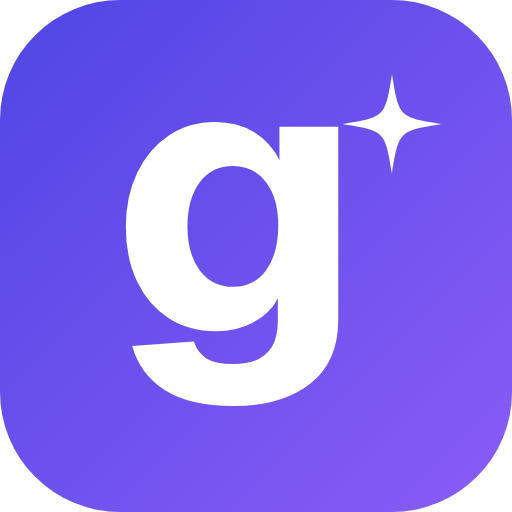
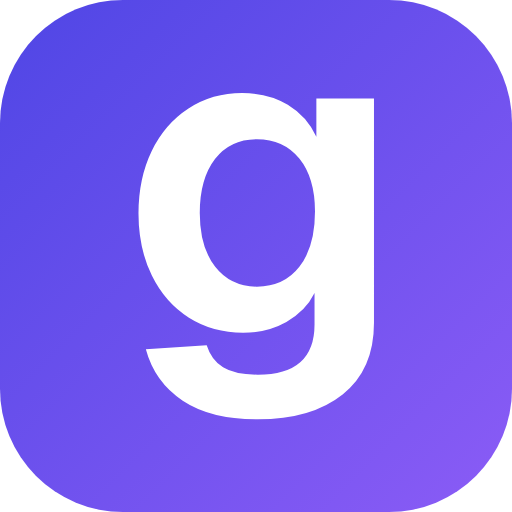
Set the g tile inside the word, on the same line as ooidy
Marcin picked the inline version: the g keeps the text size and baseline,
with a small square indigo tile behind it. Icons, brand files and the
link preview follow the same tile.

Claude-Session: https://claude.ai/code/session_014AbpVxx4rU96gcdgerUCxR

diff --git a/src/app/_landing/chrome.tsx b/src/app/_landing/chrome.tsx
@@ -1,48 +1,47 @@
-import type { ReactNode, SVGProps } from "react";
+import type { ReactNode } from "react";
 import Link from "next/link";
 import { ThemeToggle } from "./theme-toggle";
 
 // Pieces shared by the public pages: nav, link form, footer.
 
-// The Gooidy logo: the indigo "g" tile followed by "ooidy" in the text color.
-// Drawn as paths (Geist SemiBold) so it looks the same everywhere. The same
-// files live in public/brand for use outside the site.
+// The Gooidy logo: "gooidy" with the g set in an indigo tile, the rest in the
+// text color. Drawn as paths (Geist SemiBold) so it looks the same everywhere.
+// The same files live in public/brand for use outside the site.
 const G_PATH =
-  "M16.53 43.25 24.23 42.7Q24.68 44.1 25.8 44.8Q26.93 45.5 29.18 45.5Q34.73 45.5 34.73 40.15V37.3Q33.73 39.2 31.65 40.3Q29.58 41.4 26.98 41.4Q23.68 41.4 21.13 39.8Q18.58 38.2 17.15 35.23Q15.73 32.25 15.73 28.35Q15.73 24.55 17.15 21.58Q18.58 18.6 21.1 16.93Q23.63 15.25 26.88 15.25Q29.73 15.25 31.78 16.53Q33.83 17.8 34.93 20V15.85H42.28V40Q42.28 45.25 38.73 48Q35.18 50.75 29.18 50.75Q23.68 50.75 20.58 48.75Q17.48 46.75 16.53 43.25ZM34.78 28.15Q34.78 24.75 33.23 22.75Q31.68 20.75 29.13 20.75Q26.48 20.75 24.95 22.8Q23.43 24.85 23.43 28.3Q23.43 31.75 24.98 33.8Q26.53 35.85 29.13 35.85Q31.73 35.85 33.25 33.8Q34.78 31.75 34.78 28.15Z";
-const SPARK_PATH =
-  "M49 9.3C49.87 14.63 49.87 14.63 55.2 15.5C49.87 16.37 49.87 16.37 49 21.7C48.13 16.37 48.13 16.37 42.8 15.5C48.13 14.63 48.13 14.63 49 9.3Z";
+  "M19.45 1 32.65 0.1Q33.65 3.3 36.2 4.9Q38.75 6.5 43.75 6.5Q56.05 6.5 56.05 -4.4V-11.2Q54.15 -7.3 49.95 -4.95Q45.75 -2.6 40.55 -2.6Q33.95 -2.6 28.8 -5.85Q23.65 -9.1 20.75 -15Q17.85 -20.9 17.85 -28.5Q17.85 -36.1 20.7 -42Q23.55 -47.9 28.7 -51.25Q33.85 -54.6 40.35 -54.6Q46.05 -54.6 50.25 -52.05Q54.45 -49.5 56.45 -45.1V-53.4H68.95V-4.7Q68.95 5.4 62.15 10.8Q55.35 16.2 43.75 16.2Q33.55 16.2 27.45 12.15Q21.35 8.1 19.45 1ZM56.15 -28.9Q56.15 -36.2 52.75 -40.4Q49.35 -44.6 43.55 -44.6Q37.75 -44.6 34.45 -40.3Q31.15 -36 31.15 -28.6Q31.15 -21.2 34.5 -16.9Q37.85 -12.6 43.55 -12.6Q49.45 -12.6 52.8 -16.95Q56.15 -21.3 56.15 -28.9Z";
 const OOIDY_PATH =
-  "M94.1 -26.7Q94.1 -35.1 97.35 -41.4Q100.6 -47.7 106.55 -51.15Q112.5 -54.6 120.4 -54.6Q128.2 -54.6 134.15 -51.15Q140.1 -47.7 143.35 -41.4Q146.6 -35.1 146.6 -26.7Q146.6 -18.3 143.35 -12Q140.1 -5.7 134.15 -2.25Q128.2 1.2 120.4 1.2Q112.5 1.2 106.55 -2.25Q100.6 -5.7 97.35 -12Q94.1 -18.3 94.1 -26.7ZM133.4 -26.7Q133.4 -35 129.95 -39.6Q126.5 -44.2 120.4 -44.2Q114.2 -44.2 110.8 -39.6Q107.4 -35 107.4 -26.7Q107.4 -18.4 110.8 -13.8Q114.2 -9.2 120.4 -9.2Q126.6 -9.2 130 -13.8Q133.4 -18.4 133.4 -26.7ZM152.3 -26.7Q152.3 -35.1 155.55 -41.4Q158.8 -47.7 164.75 -51.15Q170.7 -54.6 178.6 -54.6Q186.4 -54.6 192.35 -51.15Q198.3 -47.7 201.55 -41.4Q204.8 -35.1 204.8 -26.7Q204.8 -18.3 201.55 -12Q198.3 -5.7 192.35 -2.25Q186.4 1.2 178.6 1.2Q170.7 1.2 164.75 -2.25Q158.8 -5.7 155.55 -12Q152.3 -18.3 152.3 -26.7ZM191.6 -26.7Q191.6 -35 188.15 -39.6Q184.7 -44.2 178.6 -44.2Q172.4 -44.2 169 -39.6Q165.6 -35 165.6 -26.7Q165.6 -18.4 169 -13.8Q172.4 -9.2 178.6 -9.2Q184.8 -9.2 188.2 -13.8Q191.6 -18.4 191.6 -26.7ZM213.4 -53.4H226.2V0H213.4ZM213.2 -71.9H226.5V-60.5H213.2ZM234.9 -26.7Q234.9 -35.2 237.65 -41.5Q240.4 -47.8 245.4 -51.2Q250.4 -54.6 257.1 -54.6Q262.6 -54.6 266.85 -52.25Q271.1 -49.9 273.3 -45.8V-71H286.1V0H274L273.7 -7.9Q271.4 -3.6 267 -1.2Q262.6 1.2 257.1 1.2Q250.3 1.2 245.3 -2.2Q240.3 -5.6 237.6 -11.9Q234.9 -18.2 234.9 -26.7ZM273.3 -26.7Q273.3 -35.2 270.1 -39.7Q266.9 -44.2 260.9 -44.2Q255 -44.2 251.6 -39.5Q248.2 -34.8 248.2 -26.7Q248.2 -18.7 251.65 -13.95Q255.1 -9.2 260.9 -9.2Q266.8 -9.2 270.05 -13.75Q273.3 -18.3 273.3 -26.7ZM301.4 5.1H308.2Q310.8 5.1 312.05 4.3Q313.3 3.5 314.1 1.6L315.5 -2.1H311.8L292.8 -53.4H306L319.5 -14.1L332.2 -53.4H345.5L324.6 5.6Q322.9 10.6 319.6 12.8Q316.3 15 310.5 15H301.4Z";
-
-export function LogoMark(props: SVGProps<SVGSVGElement>) {
-  return (
-    <svg viewBox="0 0 64 64" aria-hidden="true" {...props}>
-      <defs>
-        <linearGradient
-          id="gooidy-g"
-          x1="0"
-          y1="0"
-          x2="64"
-          y2="64"
-          gradientUnits="userSpaceOnUse"
-        >
-          <stop offset="0" stopColor="#4f46e5" />
-          <stop offset="1" stopColor="#8b5cf6" />
-        </linearGradient>
-      </defs>
-      <rect width="64" height="64" rx="15" fill="url(#gooidy-g)" />
-      <path fill="#fff" d={G_PATH} />
-      <path fill="#fff" d={SPARK_PATH} />
-    </svg>
-  );
-}
+  "M95.9 -26.7Q95.9 -35.1 99.15 -41.4Q102.4 -47.7 108.35 -51.15Q114.3 -54.6 122.2 -54.6Q130 -54.6 135.95 -51.15Q141.9 -47.7 145.15 -41.4Q148.4 -35.1 148.4 -26.7Q148.4 -18.3 145.15 -12Q141.9 -5.7 135.95 -2.25Q130 1.2 122.2 1.2Q114.3 1.2 108.35 -2.25Q102.4 -5.7 99.15 -12Q95.9 -18.3 95.9 -26.7ZM135.2 -26.7Q135.2 -35 131.75 -39.6Q128.3 -44.2 122.2 -44.2Q116 -44.2 112.6 -39.6Q109.2 -35 109.2 -26.7Q109.2 -18.4 112.6 -13.8Q116 -9.2 122.2 -9.2Q128.4 -9.2 131.8 -13.8Q135.2 -18.4 135.2 -26.7ZM154.1 -26.7Q154.1 -35.1 157.35 -41.4Q160.6 -47.7 166.55 -51.15Q172.5 -54.6 180.4 -54.6Q188.2 -54.6 194.15 -51.15Q200.1 -47.7 203.35 -41.4Q206.6 -35.1 206.6 -26.7Q206.6 -18.3 203.35 -12Q200.1 -5.7 194.15 -2.25Q188.2 1.2 180.4 1.2Q172.5 1.2 166.55 -2.25Q160.6 -5.7 157.35 -12Q154.1 -18.3 154.1 -26.7ZM193.4 -26.7Q193.4 -35 189.95 -39.6Q186.5 -44.2 180.4 -44.2Q174.2 -44.2 170.8 -39.6Q167.4 -35 167.4 -26.7Q167.4 -18.4 170.8 -13.8Q174.2 -9.2 180.4 -9.2Q186.6 -9.2 190 -13.8Q193.4 -18.4 193.4 -26.7ZM215.2 -53.4H228V0H215.2ZM215 -71.9H228.3V-60.5H215ZM236.7 -26.7Q236.7 -35.2 239.45 -41.5Q242.2 -47.8 247.2 -51.2Q252.2 -54.6 258.9 -54.6Q264.4 -54.6 268.65 -52.25Q272.9 -49.9 275.1 -45.8V-71H287.9V0H275.8L275.5 -7.9Q273.2 -3.6 268.8 -1.2Q264.4 1.2 258.9 1.2Q252.1 1.2 247.1 -2.2Q242.1 -5.6 239.4 -11.9Q236.7 -18.2 236.7 -26.7ZM275.1 -26.7Q275.1 -35.2 271.9 -39.7Q268.7 -44.2 262.7 -44.2Q256.8 -44.2 253.4 -39.5Q250 -34.8 250 -26.7Q250 -18.7 253.45 -13.95Q256.9 -9.2 262.7 -9.2Q268.6 -9.2 271.85 -13.75Q275.1 -18.3 275.1 -26.7ZM303.2 5.1H310Q312.6 5.1 313.85 4.3Q315.1 3.5 315.9 1.6L317.3 -2.1H313.6L294.6 -53.4H307.8L321.3 -14.1L334 -53.4H347.3L326.4 5.6Q324.7 10.6 321.4 12.8Q318.1 15 312.3 15H303.2Z";
 
 export function Logo() {
   return (
-    <Link href="/" aria-label="Gooidy home" className="flex items-center text-fg">
-      <svg viewBox="0 -75 346.5 98" className="h-7 w-auto" role="img">
+    <Link
+      href="/"
+      aria-label="Gooidy home"
+      className="flex items-center text-fg"
+    >
+      <svg viewBox="0 -72.9 348.3 98.1" className="h-7 w-auto" role="img">
         <title>Gooidy</title>
-        <LogoMark x="0" y="-74" width="82" height="82" />
+        <defs>
+          <linearGradient
+            id="gooidy-g"
+            x1="0"
+            y1="-62.6"
+            x2="86.8"
+            y2="24.2"
+            gradientUnits="userSpaceOnUse"
+          >
+            <stop offset="0" stopColor="#4f46e5" />
+            <stop offset="1" stopColor="#8b5cf6" />
+          </linearGradient>
+        </defs>
+        <rect
+          y="-62.6"
+          width="86.8"
+          height="86.8"
+          rx="20.8"
+          fill="url(#gooidy-g)"
+        />
+        <path fill="#fff" d={G_PATH} />
         <path fill="currentColor" d={OOIDY_PATH} />
       </svg>
     </Link>
